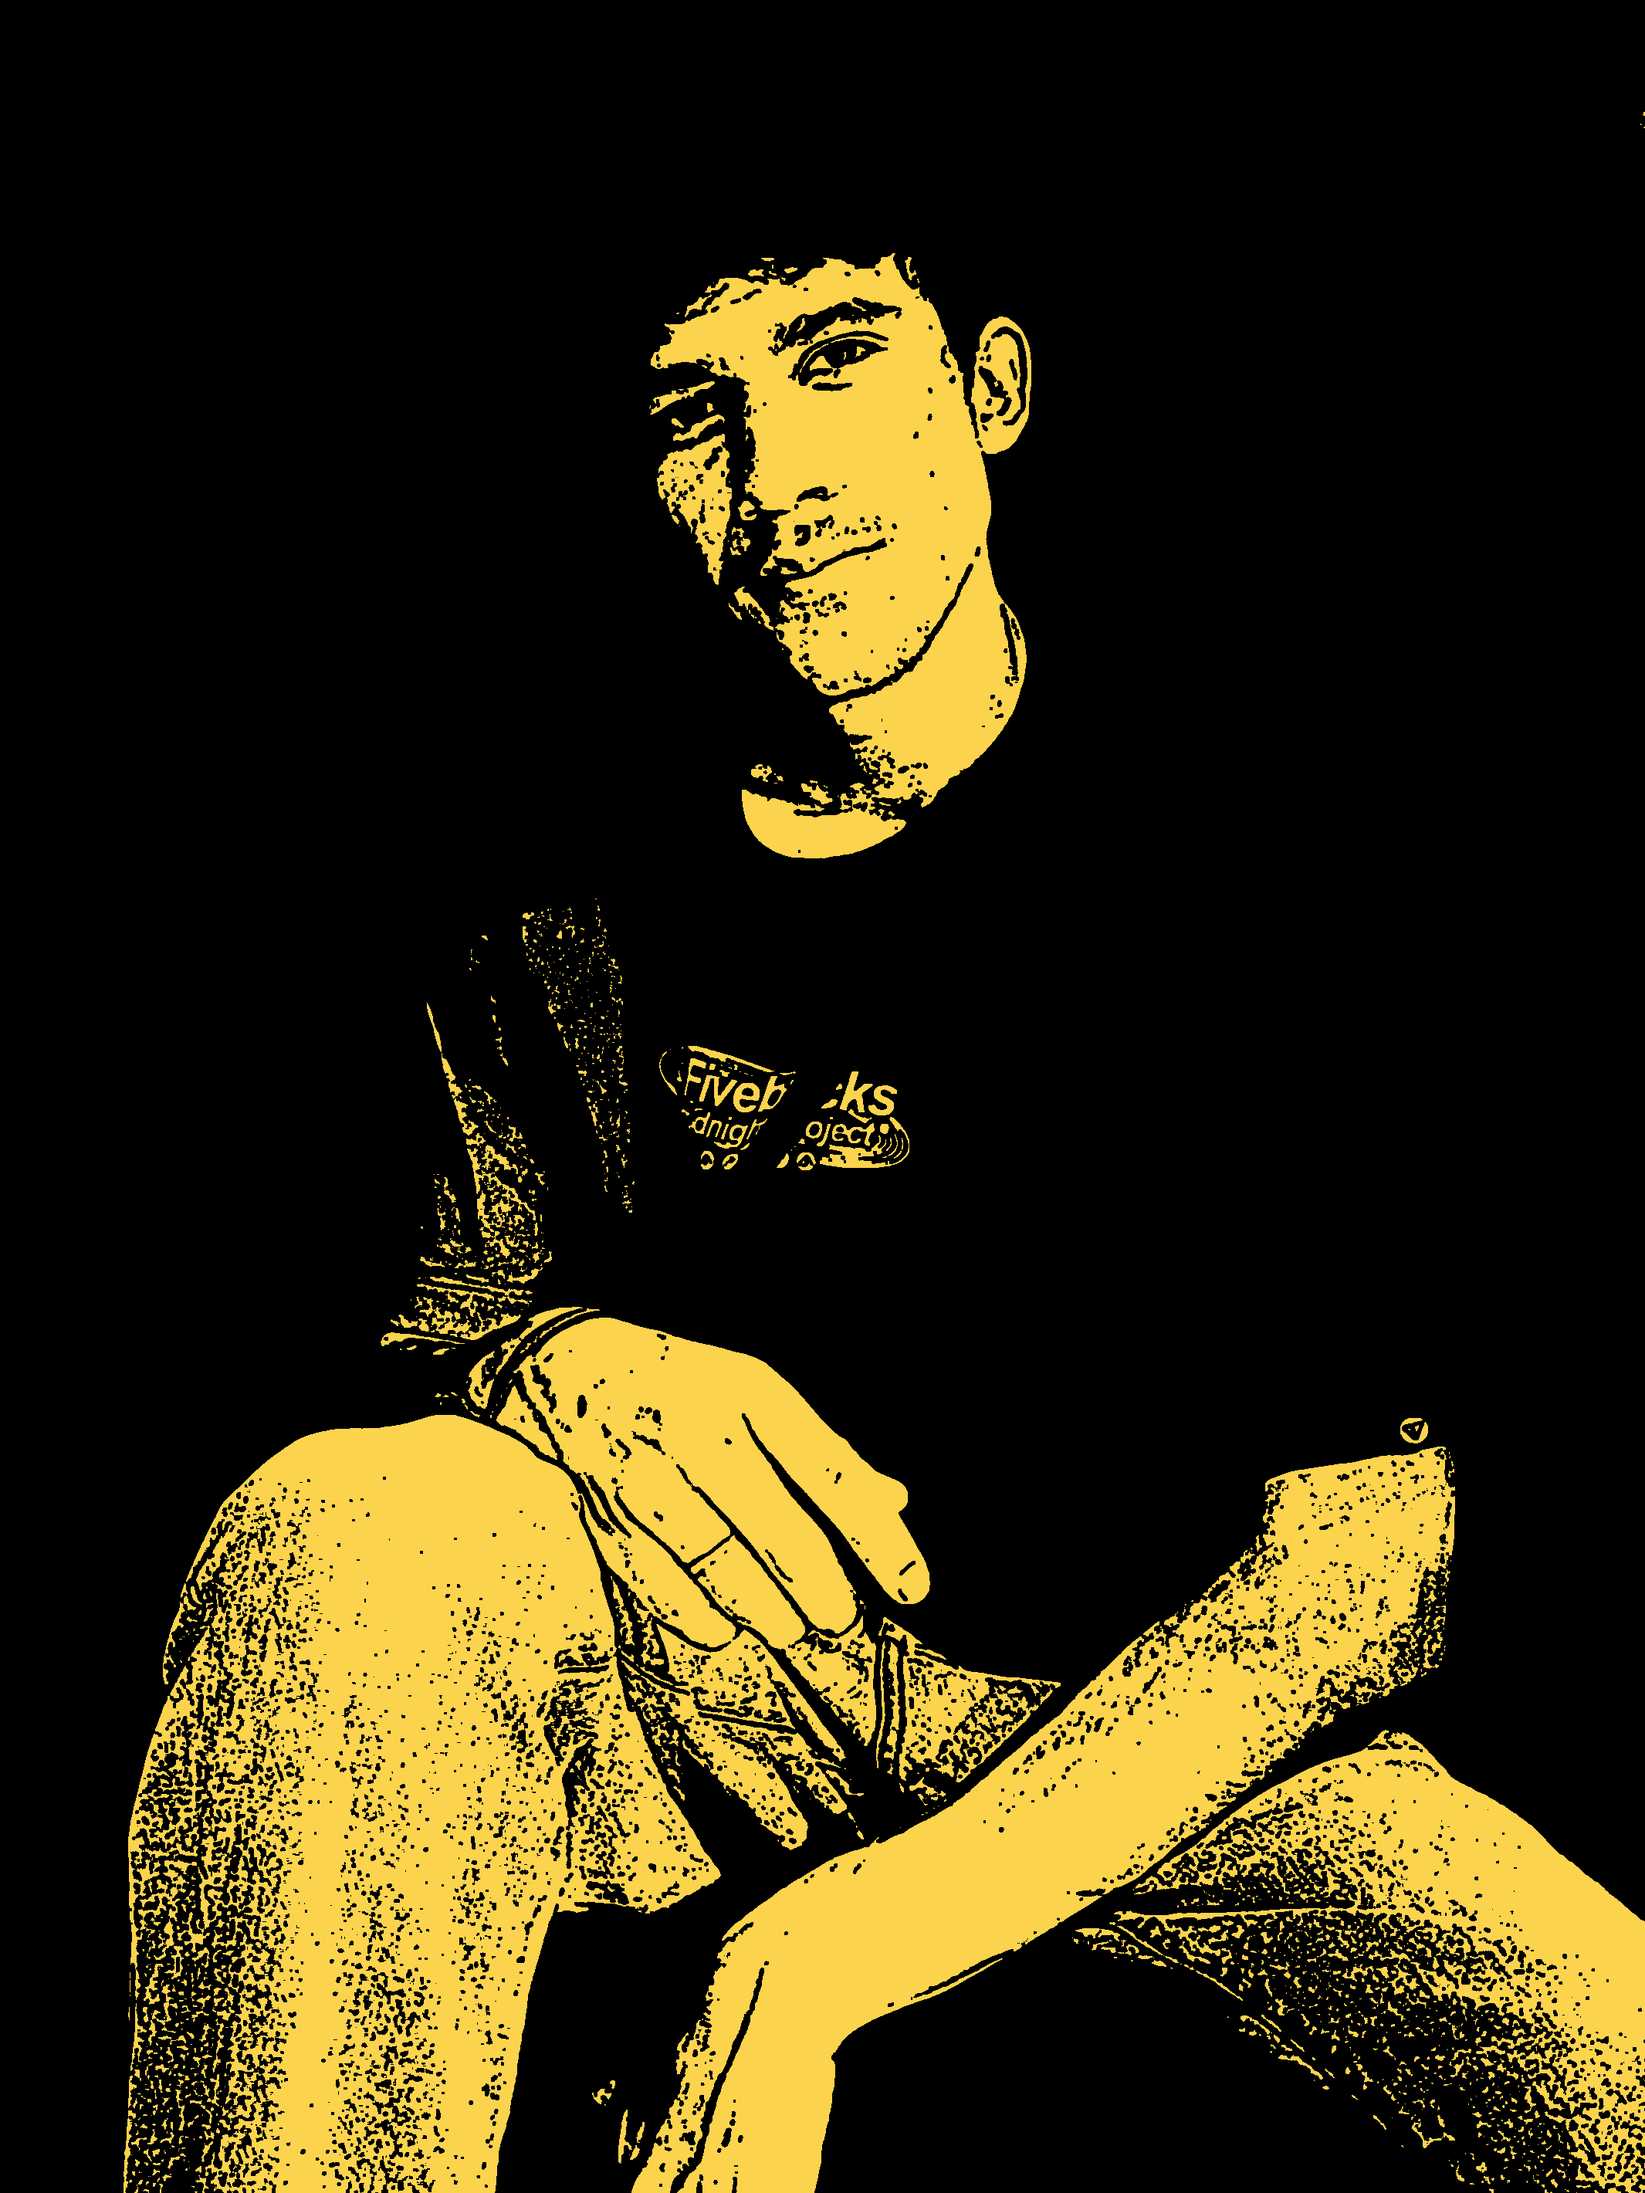
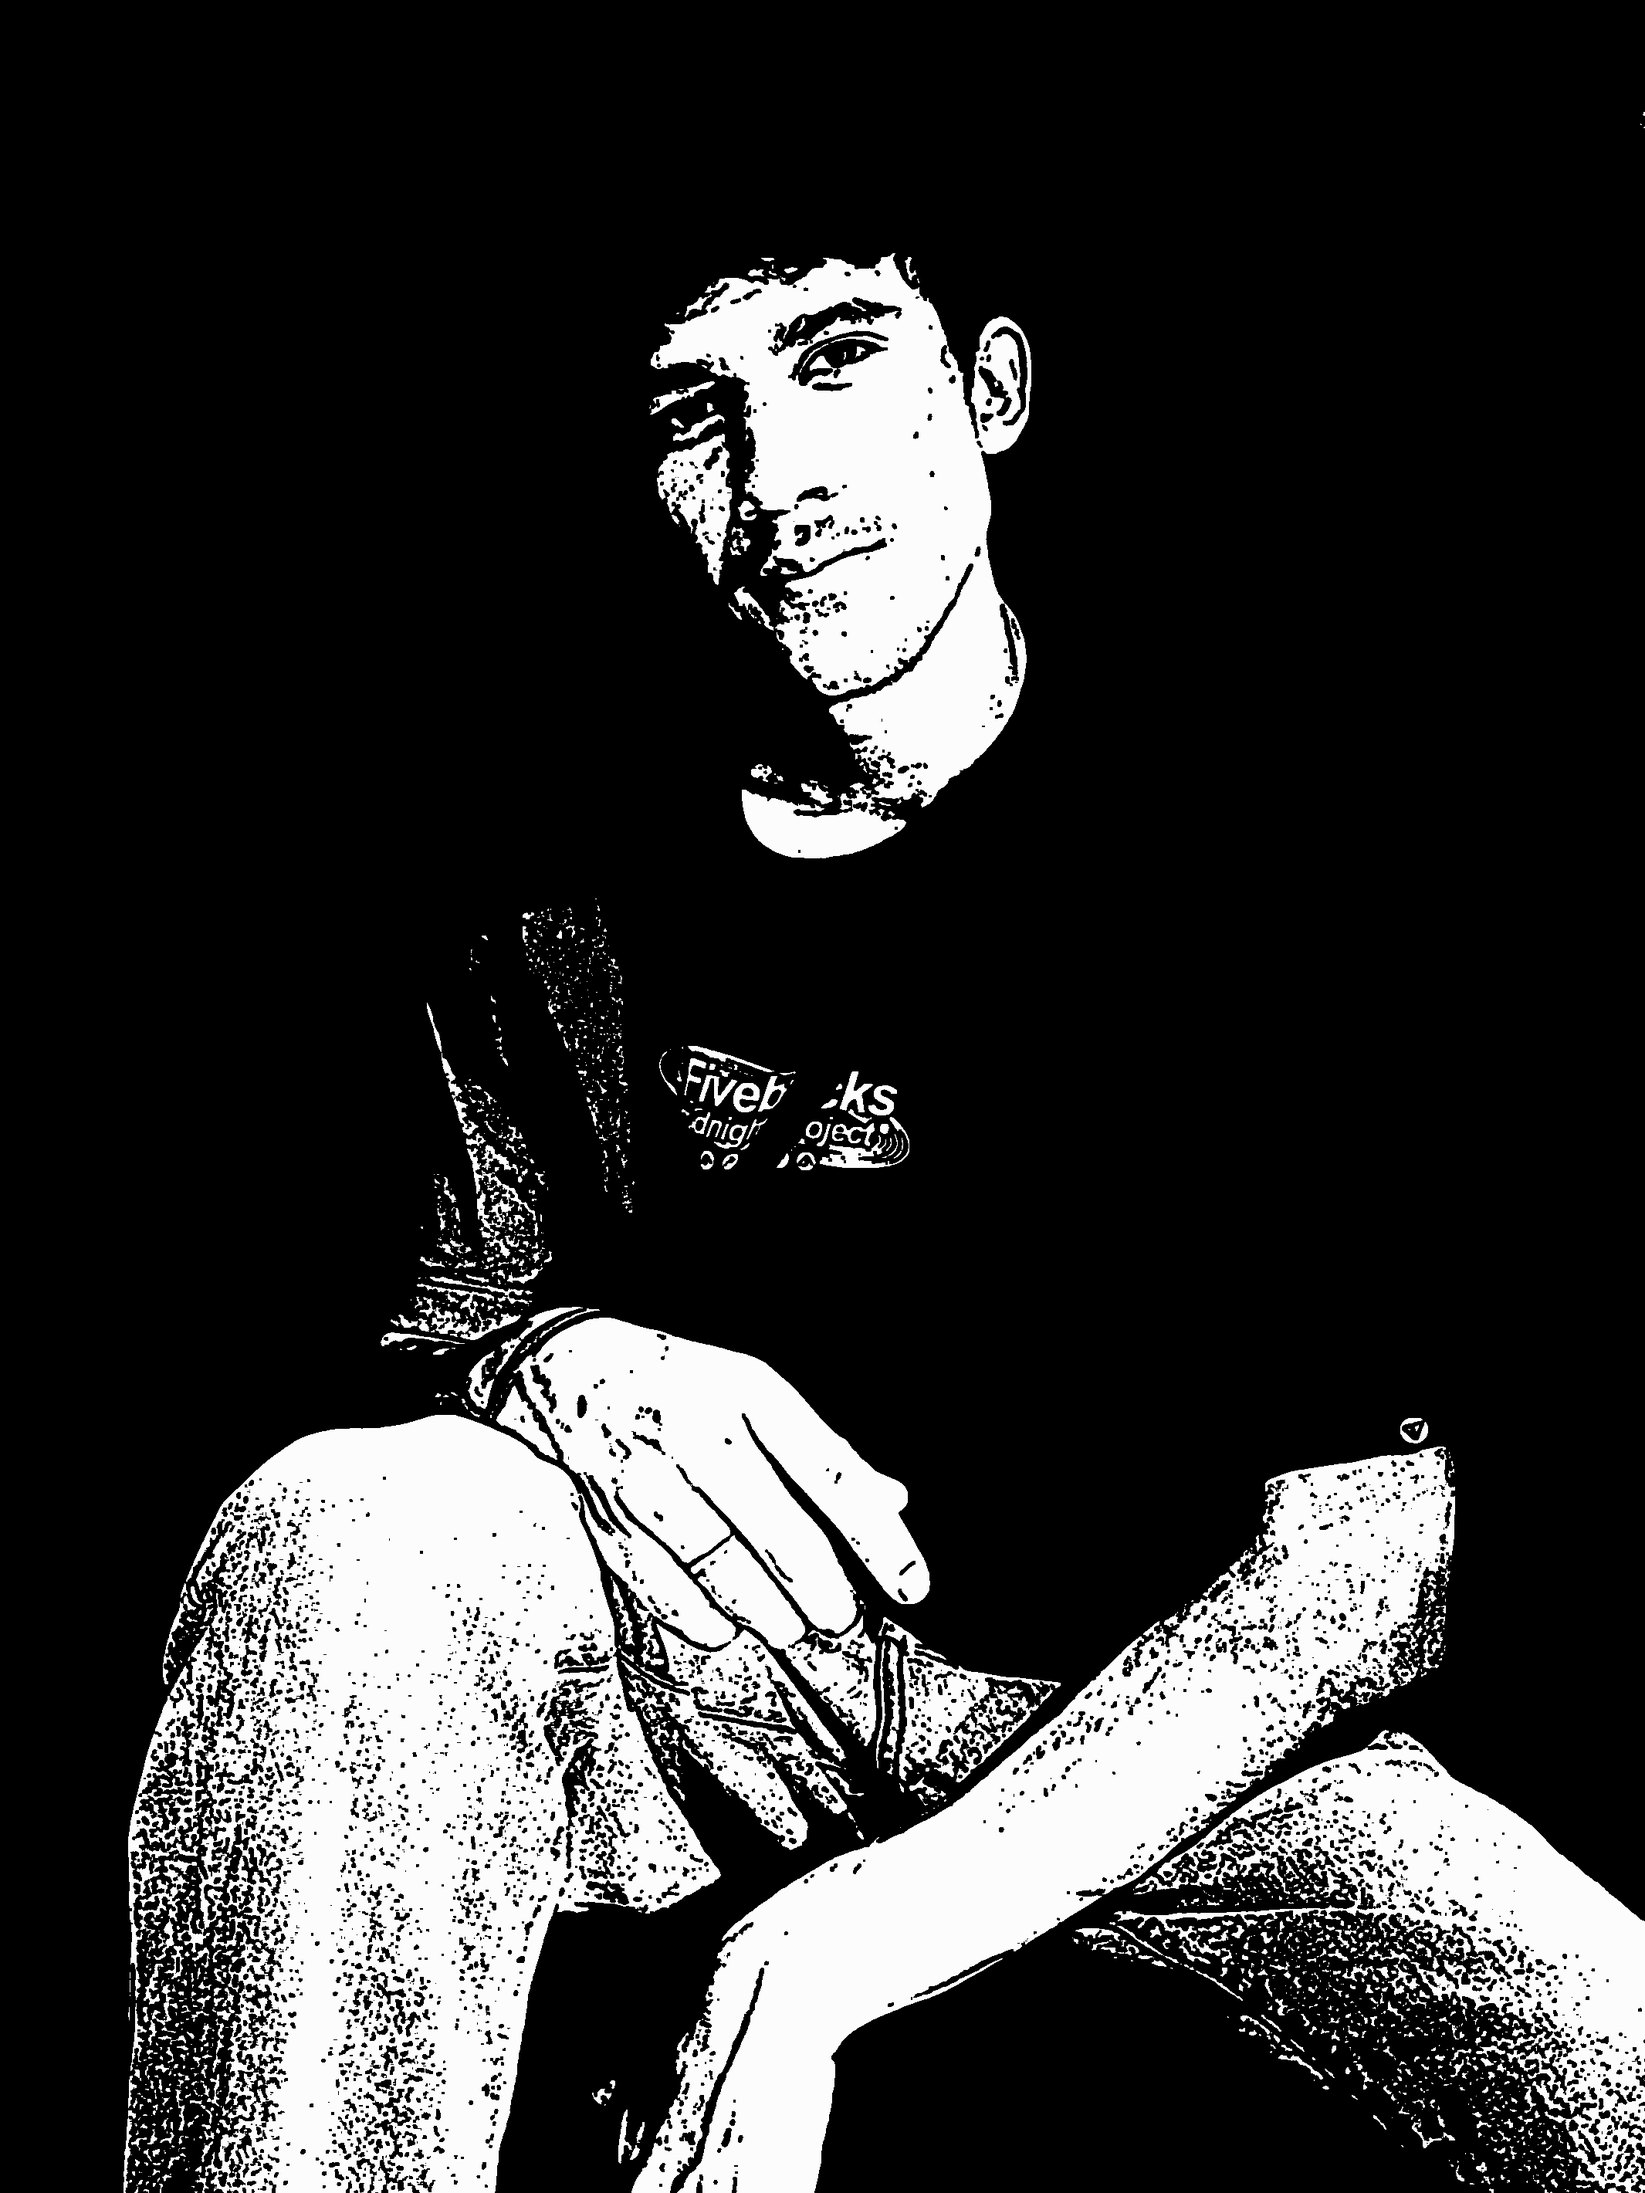
fix: change homepage image opacity

Changed region(s): [[0.0619, 0.4956, 1.0, 1.0], [0.4026, 0.0929, 0.6194, 0.4027], [0.4026, 0.4646, 0.5575, 0.5576]]

diff --git a/app/page.tsx b/app/page.tsx
@@ -71,12 +71,12 @@ export default function Page() {
               </div>
             </div>
             <div className="relative">
-              <div className="relative aspect-[4/5] w-full overflow-hidden rounded-xl border border-neutral-900 bg-neutral-950">
+              <div className="relative aspect-[4/5] w-full overflow-hidden rounded-xl border bg-amber-300 border-neutral-900 ">
                 <Image
                   src="/images/yellowme.png"
                   alt="Retrato de Ezequias em luz baixa"
                   fill
-                  className="object-cover opacity-90"
+                  className="object-cover"
                   sizes="(min-width: 1024px) 32rem, 100vw"
                   priority
                 />
